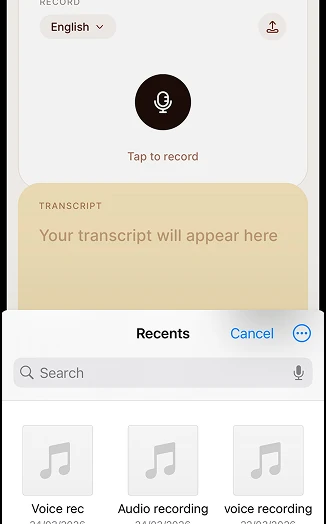
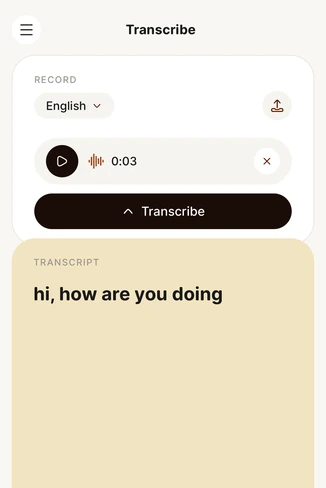
Replace generated UI mockups with real app screenshots; enlarge globe further
- Swapped the hand-drawn Products-section and product-page mockups for
  actual app screenshots supplied for AI, Translate, Transcribe, and ASR,
  cropped/resized to fit each context (full screen for the home page tabs,
  top-cropped for the compact product-page cards).
- ASR now shows its real "Mansa TTS coming soon" screen in the Products
  section instead of a plain "Coming soon" badge.
- Fixed a real bug found along the way: EmptyFeatureCards' "float" mode
  flex container defaulted to align-items: stretch, silently squishing
  every card image to the same height regardless of its actual aspect
  ratio. Added items-start so h-auto sizing works correctly.
- Globe: enlarged further (74% -> 84%, glow 88% -> 92%) and moved the
  connector-line radius to match, closing the visible ring gap around the
  sphere reported after the first size pass.

diff --git a/components/sections/SupportedLanguages.tsx b/components/sections/SupportedLanguages.tsx
@@ -12,8 +12,8 @@ import { asset } from "@/lib/assets";
 // wider than the globe (w-[60%]) so labels sit just outside the sphere with
 // short connectors while still fitting within the section horizontally.
 // NOTE: r is a fraction of the container WIDTH — offset from centre = r * width.
-// The sphere (globe div w-[74%]) has radius 0.37 * width, so labels hug just past that.
-const R_GLOBE = 0.37; // connector line start, right at the sphere edge (sphere radius = 0.74 / 2)
+// The sphere (globe div w-[84%]) has radius 0.42 * width, so labels hug just past that.
+const R_GLOBE = 0.42; // connector line start, right at the sphere edge (sphere radius = 0.84 / 2)
 const R_LINE_END = 0.49; // where labels anchor — just outside the sphere
 
 function polar(angleDeg: number, r: number) {
@@ -106,10 +106,10 @@ export function SupportedLanguages() {
             </svg>
 
             {/* Soft glow behind the globe */}
-            <div className="pointer-events-none absolute left-1/2 top-1/2 aspect-square w-[88%] -translate-x-1/2 -translate-y-1/2 rounded-full bg-[radial-gradient(circle,rgba(232,177,92,0.55),rgba(194,87,31,0.25)_55%,rgba(122,42,29,0)_72%)] blur-2xl" />
+            <div className="pointer-events-none absolute left-1/2 top-1/2 aspect-square w-[92%] -translate-x-1/2 -translate-y-1/2 rounded-full bg-[radial-gradient(circle,rgba(232,177,92,0.55),rgba(194,87,31,0.25)_55%,rgba(122,42,29,0)_72%)] blur-2xl" />
 
             {/* Clean sphere (pre-cropped from the source, no baked labels) */}
-            <div className="absolute left-1/2 top-1/2 aspect-square w-[74%] -translate-x-1/2 -translate-y-1/2 overflow-hidden rounded-full shadow-[0_20px_60px_-15px_rgba(122,42,29,0.55)]">
+            <div className="absolute left-1/2 top-1/2 aspect-square w-[84%] -translate-x-1/2 -translate-y-1/2 overflow-hidden rounded-full shadow-[0_20px_60px_-15px_rgba(122,42,29,0.55)]">
               <Image
                 src={asset("/assets/globe-sphere.webp")}
                 alt="A golden globe highlighting Africa"

diff --git a/components/sections/ProductsShowcase.tsx b/components/sections/ProductsShowcase.tsx
@@ -19,15 +19,15 @@ const productImages: Record<string, string> = {
   asr: asset("/assets/product-transcribe.webp"),
 };
 
-// The product's app UI floated over the art (asr is coming soon). Width/height
-// are each image's native size — mismatched values here stretch the screenshot
-// off its real aspect ratio, which reads as blur.
+// The product's app UI floated over the art. Width/height are each image's
+// native size — mismatched values here stretch the screenshot off its real
+// aspect ratio, which reads as blur.
 const productUIs: Record<string, { src: string; width: number; height: number; gif?: boolean } | null> = {
   agent: { src: asset("/assets/agent-section-ui.webp"), width: 394, height: 807, gif: true },
-  ai: { src: asset("/assets/ai-section-ui.webp"), width: 394, height: 807 },
-  translate: { src: asset("/assets/translate-ui-1.webp"), width: 326, height: 468 },
-  transcribe: { src: asset("/assets/transcribe-ui-2.webp"), width: 326, height: 490 },
-  asr: null,
+  ai: { src: asset("/assets/ai-section-ui.webp"), width: 394, height: 790 },
+  translate: { src: asset("/assets/translate-section-ui.webp"), width: 394, height: 793 },
+  transcribe: { src: asset("/assets/transcribe-section-ui.webp"), width: 394, height: 798 },
+  asr: { src: asset("/assets/asr-section-ui.webp"), width: 394, height: 785 },
 };
 
 function Body({ text }: { text: string }) {

diff --git a/app/translate/page.tsx b/app/translate/page.tsx
@@ -41,14 +41,14 @@ export default function TranslatePage() {
               body: "Preserves meaning, intent, and cultural context instead of translating word for word.",
               img: asset("/assets/translate-ui-2.webp"),
               imgWidth: 326,
-              imgHeight: 468,
+              imgHeight: 466,
             },
             {
               title: "Translate between over 30 African Languages",
               body: "Translate text accurately across 30+ African languages while preserving meaning, context, and cultural nuance.",
               img: asset("/assets/translate-ui-1.webp"),
               imgWidth: 326,
-              imgHeight: 468,
+              imgHeight: 499,
             },
           ]}
         />

diff --git a/app/transcribe/page.tsx b/app/transcribe/page.tsx
@@ -41,14 +41,14 @@ export default function TranscribePage() {
               body: "Convert spoken language into clear, readable text in seconds.",
               img: asset("/assets/transcribe-ui-2.webp"),
               imgWidth: 326,
-              imgHeight: 490,
+              imgHeight: 524,
             },
             {
               title: "Upload Audio to Text",
               body: "Convert uploaded audio into clear, readable text in seconds.",
               img: asset("/assets/transcribe-ui-1.webp"),
               imgWidth: 326,
-              imgHeight: 524,
+              imgHeight: 488,
             },
           ]}
         />

diff --git a/components/product/EmptyFeatureCards.tsx b/components/product/EmptyFeatureCards.tsx
@@ -92,7 +92,7 @@ export function EmptyFeatureCards({
                 )}
                 <div
                   className={`relative ${mediaAspect} w-full overflow-hidden rounded-3xl ${
-                    float ? "flex justify-center pt-[11%]" : "transition-transform duration-300 ease-out group-hover:scale-[1.03]"
+                    float ? "flex items-start justify-center pt-[11%]" : "transition-transform duration-300 ease-out group-hover:scale-[1.03]"
                   } ${panelClass}`}
                 >
                   {c.img &&
